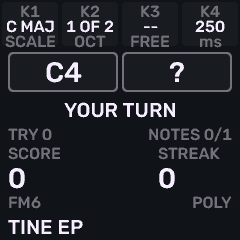
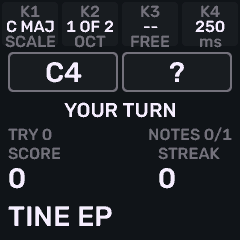
Give the patch name the full game footer

Changed region(s): [[0.0292, 0.8167, 0.4667, 0.9917], [0.7875, 0.8167, 0.9625, 0.875]]

diff --git a/web/guide/index.html b/web/guide/index.html
@@ -1,6 +1,6 @@
 <!doctype html><html lang="en"><head><meta charset="utf-8"><meta name="viewport" content="width=device-width,initial-scale=1"><title>FM-1 Ear Trainer · Guide</title><style>body{max-width:720px;margin:48px auto;padding:0 24px;font:18px/1.7 system-ui;background:#111416;color:#f3eef8}a{color:#ffb595}h1,h2{line-height:1.2}li{margin-bottom:12px}small{color:#b9b9bf}</style></head><body>
 <nav><a href="../../">Home</a> · <a href="../../emu/">Emulator</a> · <a href="../installer/">Installer</a></nav>
-<h1>Repeat the hidden notes</h1><p>Choose a single octave or the full F3–G5 keyboard in K2. Each sequence contains distinct pitches. Octave mode uses C4–C5 in major or A3–A4 in minor; full mode extends above and below the reference.</p><p>Listen to the full exercise, then play the hidden ending notes in order. Release keys between answers. Pitches include octave.</p><h2>Display</h2><p>Four top zones correspond to K1–K4. Note cards show references and hide target pitches; accepted answers turn green, and a failed card is marked red. Correct answers reveal the completed sequence. SCORE is the session point total; STREAK counts consecutive first-attempt successes without replay. The bottom shows the engine and patch name.</p><h2>Training knobs</h2><ul><li><strong>K1 Scale:</strong> C major or A natural minor (reference A3).</li><li><strong>K2 Complexity:</strong> hidden notes of total notes: 1 of 1, 1 of 2, 2 of 2, 1 of 3, 2 of 3, 3 of 3, 1 of 4, 2 of 4, 3 of 4, 4 of 4. The ten combinations repeat in two blocks: OCT (one octave), then FULL (whole keyboard). Default: 1 of 2 OCT. When all notes are hidden, the first pitch changes each question.</li><li><strong>PRESETS knob:</strong> select among 24 FM6 sounds followed by 200 Prophet factory programs. Every preset uses poly mode. Changing sound stops playback and replays the same question; after a correct answer it advances to the next question.</li><li><strong>K4 Time:</strong> 0–1000 ms between note starts, in 25 ms steps; default 250 ms. Zero plays a simultaneous chord.</li><li><strong>K3:</strong> reserved.</li></ul><p>Preferences (scale, complexity/range, spacing and preset) save automatically during quiet answer pauses or after exiting training. Wait for SAVING SETTINGS to finish before powering off. The emulator remembers these preferences in this browser. Scores and practice history reset on restart.</p><p>Notes sustain together as an arpeggiated chord, releasing one second after the last note starts. Known notes turn green with an underline while held, and their keyboard keys light up. Notes to guess never light a keyboard key during playback. Changing scale, complexity or spacing starts a fresh question. In the emulator, use the corresponding printed knobs on the panel.</p>
+<h1>Repeat the hidden notes</h1><p>Choose a single octave or the full F3–G5 keyboard in K2. Each sequence contains distinct pitches. Octave mode uses C4–C5 in major or A3–A4 in minor; full mode extends above and below the reference.</p><p>Listen to the full exercise, then play the hidden ending notes in order. Release keys between answers. Pitches include octave.</p><h2>Display</h2><p>Four top zones correspond to K1–K4. Note cards show references and hide target pitches; accepted answers turn green, and a failed card is marked red. Correct answers reveal the completed sequence. SCORE is the session point total; STREAK counts consecutive first-attempt successes without replay. The bottom is dedicated to a larger patch name.</p><h2>Training knobs</h2><ul><li><strong>K1 Scale:</strong> C major or A natural minor (reference A3).</li><li><strong>K2 Complexity:</strong> hidden notes of total notes: 1 of 1, 1 of 2, 2 of 2, 1 of 3, 2 of 3, 3 of 3, 1 of 4, 2 of 4, 3 of 4, 4 of 4. The ten combinations repeat in two blocks: OCT (one octave), then FULL (whole keyboard). Default: 1 of 2 OCT. When all notes are hidden, the first pitch changes each question.</li><li><strong>PRESETS knob:</strong> select among 24 FM6 sounds followed by 200 Prophet factory programs. Every preset uses poly mode. Changing sound stops playback and replays the same question; after a correct answer it advances to the next question.</li><li><strong>K4 Time:</strong> 0–1000 ms between note starts, in 25 ms steps; default 250 ms. Zero plays a simultaneous chord.</li><li><strong>K3:</strong> reserved.</li></ul><p>Preferences (scale, complexity/range, spacing and preset) save automatically during quiet answer pauses or after exiting training. Wait for SAVING SETTINGS to finish before powering off. The emulator remembers these preferences in this browser. Scores and practice history reset on restart.</p><p>Notes sustain together as an arpeggiated chord, releasing one second after the last note starts. Known notes turn green with an underline while held, and their keyboard keys light up. Notes to guess never light a keyboard key during playback. Changing scale, complexity or spacing starts a fresh question. In the emulator, use the corresponding printed knobs on the panel.</p>
 <h2>In the browser</h2><p>For panel button combinations, click <strong>Hold HOME</strong>, then another button. Or <strong>Shift+click</strong> any panel button to hold it. A blue outline marks the hold. The next button/key release clears it; <strong>Escape</strong> or <strong>Release held controls</strong> releases everything.</p><ol><li>Open the emulator and press <strong>Switch on</strong> to enable sound.</li><li>Press <strong>Start training</strong>.</li><li>Listen, then click a key, use the computer-keyboard note shortcuts, or select an external MIDI keyboard.</li><li>Use <strong>Replay / Retry</strong> or <strong>Next question</strong>.</li></ol>
 <h2>On the FM-1</h2><p>With transport stopped, hold <strong>HOME</strong> and tap <strong>PLAY</strong>. PLAY retries; REC generates the next question; HOME exits. The built-in keys use a fixed F3–G5 layout in this mode. Release held keys before answering. Matching includes octave.</p>
 <h2>Answer feedback</h2><p><strong>Green: correct.</strong> After one second, the next exercise starts automatically. <strong>Red: wrong.</strong> Musical keys are blocked, then after one second the same sequence plays again for another attempt. Release held keys before answering. PLAY replays manually; REC skips to the next exercise.</p>

diff --git a/melodee/firmware/src/ear_ui.c b/melodee/firmware/src/ear_ui.c
@@ -197,9 +197,9 @@ static void ear_ui_draw(void)
         } else if(band==4) {
             uint32_t engine=ear_preset_engine(ear_settings.preset),preset=ear_preset_index(ear_settings.preset);
             const preset_t *patch=eng_preset(ENGINES[engine],preset);
-            cv_text(8,1,TY_LB,engine==ENGI_FM6?"FM6":"PROPHET",dim);
-            cv_text_r(232,1,TY_LB,"POLY",dim,bg);
-            cv_free_text(8,23,ty_fit(TY_TX,patch->name,224),patch->name,ink,bg,224);
+            const aafont_t *font=TY_VL;
+            if(text_w(font,patch->name)>224)font=ty_fit(TY_TX,patch->name,224);
+            cv_free_text(8,ty_y(24,font),font,patch->name,ink,bg,224);
         }
         cv_blit(0,band*48u);
     }

diff --git a/docs/KNOB-CARDS-PROPHET.md b/docs/KNOB-CARDS-PROPHET.md
@@ -72,3 +72,14 @@ explicit settings migration before future factory-bank changes can shift IDs.
 Real-browser check also passed: existing A-minor/2-of-2/275 ms/BELL preferences
 restore under the new layout, then PRESETS crosses to the first Prophet factory
 program and the footer shows PROPHET, POLY and the correct program name.
+
+## 0.0.13 footer refinement
+
+The footer now shows only the patch name, using the full 224-pixel content
+width and vertically centred large type. Long names fall back through the
+existing text/label sizes. Engine and constant POLY labels are removed. Native
+game/preset regressions PASS; FM6 and Prophet screen captures checked. This is
+main-loop rendering only: audio/numerics, ownership, storage/schema, dependencies,
+licences and package/recovery contracts are unchanged (source review PASS).
+Publication requires the normal target/host/WASM/attestation gates. Hardware
+timing remains UNVERIFIED. The Hub card is refreshed from the native screen.

diff --git a/README.md b/README.md
@@ -2,7 +2,7 @@
 
 An ear-training game for the M-VAVE FM-1, built on [Melodee](https://github.com/keremimo/melodee) and its existing FM6 and Prophet synthesizers. Listen, then reproduce the hidden notes using the built-in keyboard or supported MIDI input.
 
-## Current prototype — 0.0.12
+## Current prototype — 0.0.13
 
 - C major and A natural minor exercises with 1–4 distinct pitches within one octave or across the full F3–G5 keyboard range.
 - Choose how many ending notes to hide; reproduce them in order, releasing keys between entries. With every note hidden, the starting pitch changes each question.

diff --git a/docs/BUILDING.md b/docs/BUILDING.md
@@ -42,7 +42,7 @@ available. Build outputs appear under `melodee/build/` and `build/site/`.
 
 ## Development packages and hardware
 
-Project builds use `project.json`: version 0.0.12 and dedicated `FM-1_327008`
+Project builds use `project.json`: version 0.0.13 and dedicated `FM-1_327008`
 identity. Earlier prototypes used shared `FM-1_900`. These development builds
 are not official Melodee releases or hardware-qualified builds. Back up the
 actual unit and confirm its matching recovery procedure before installing.
